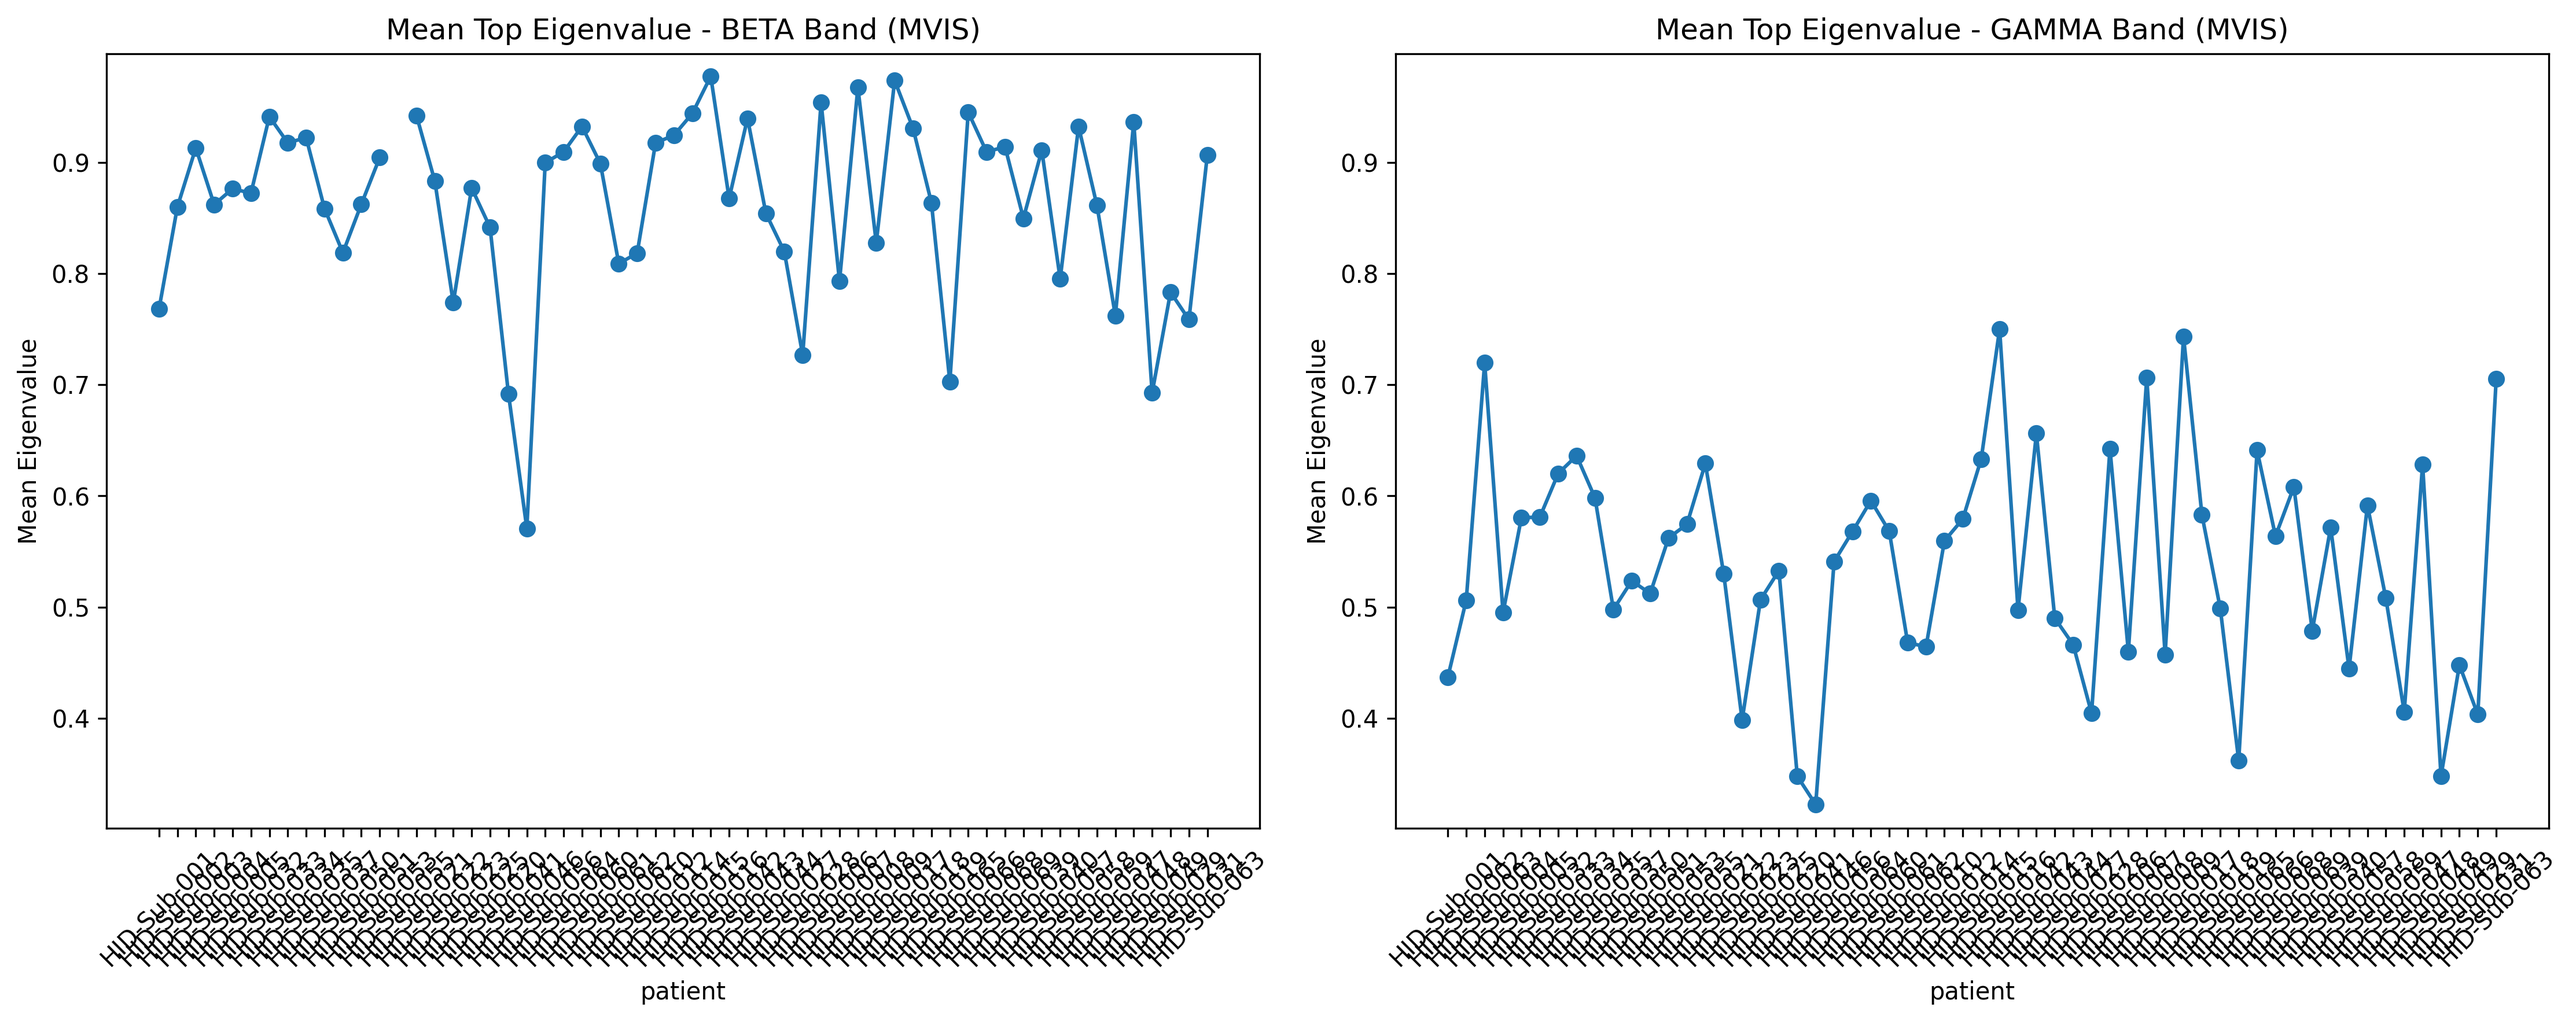
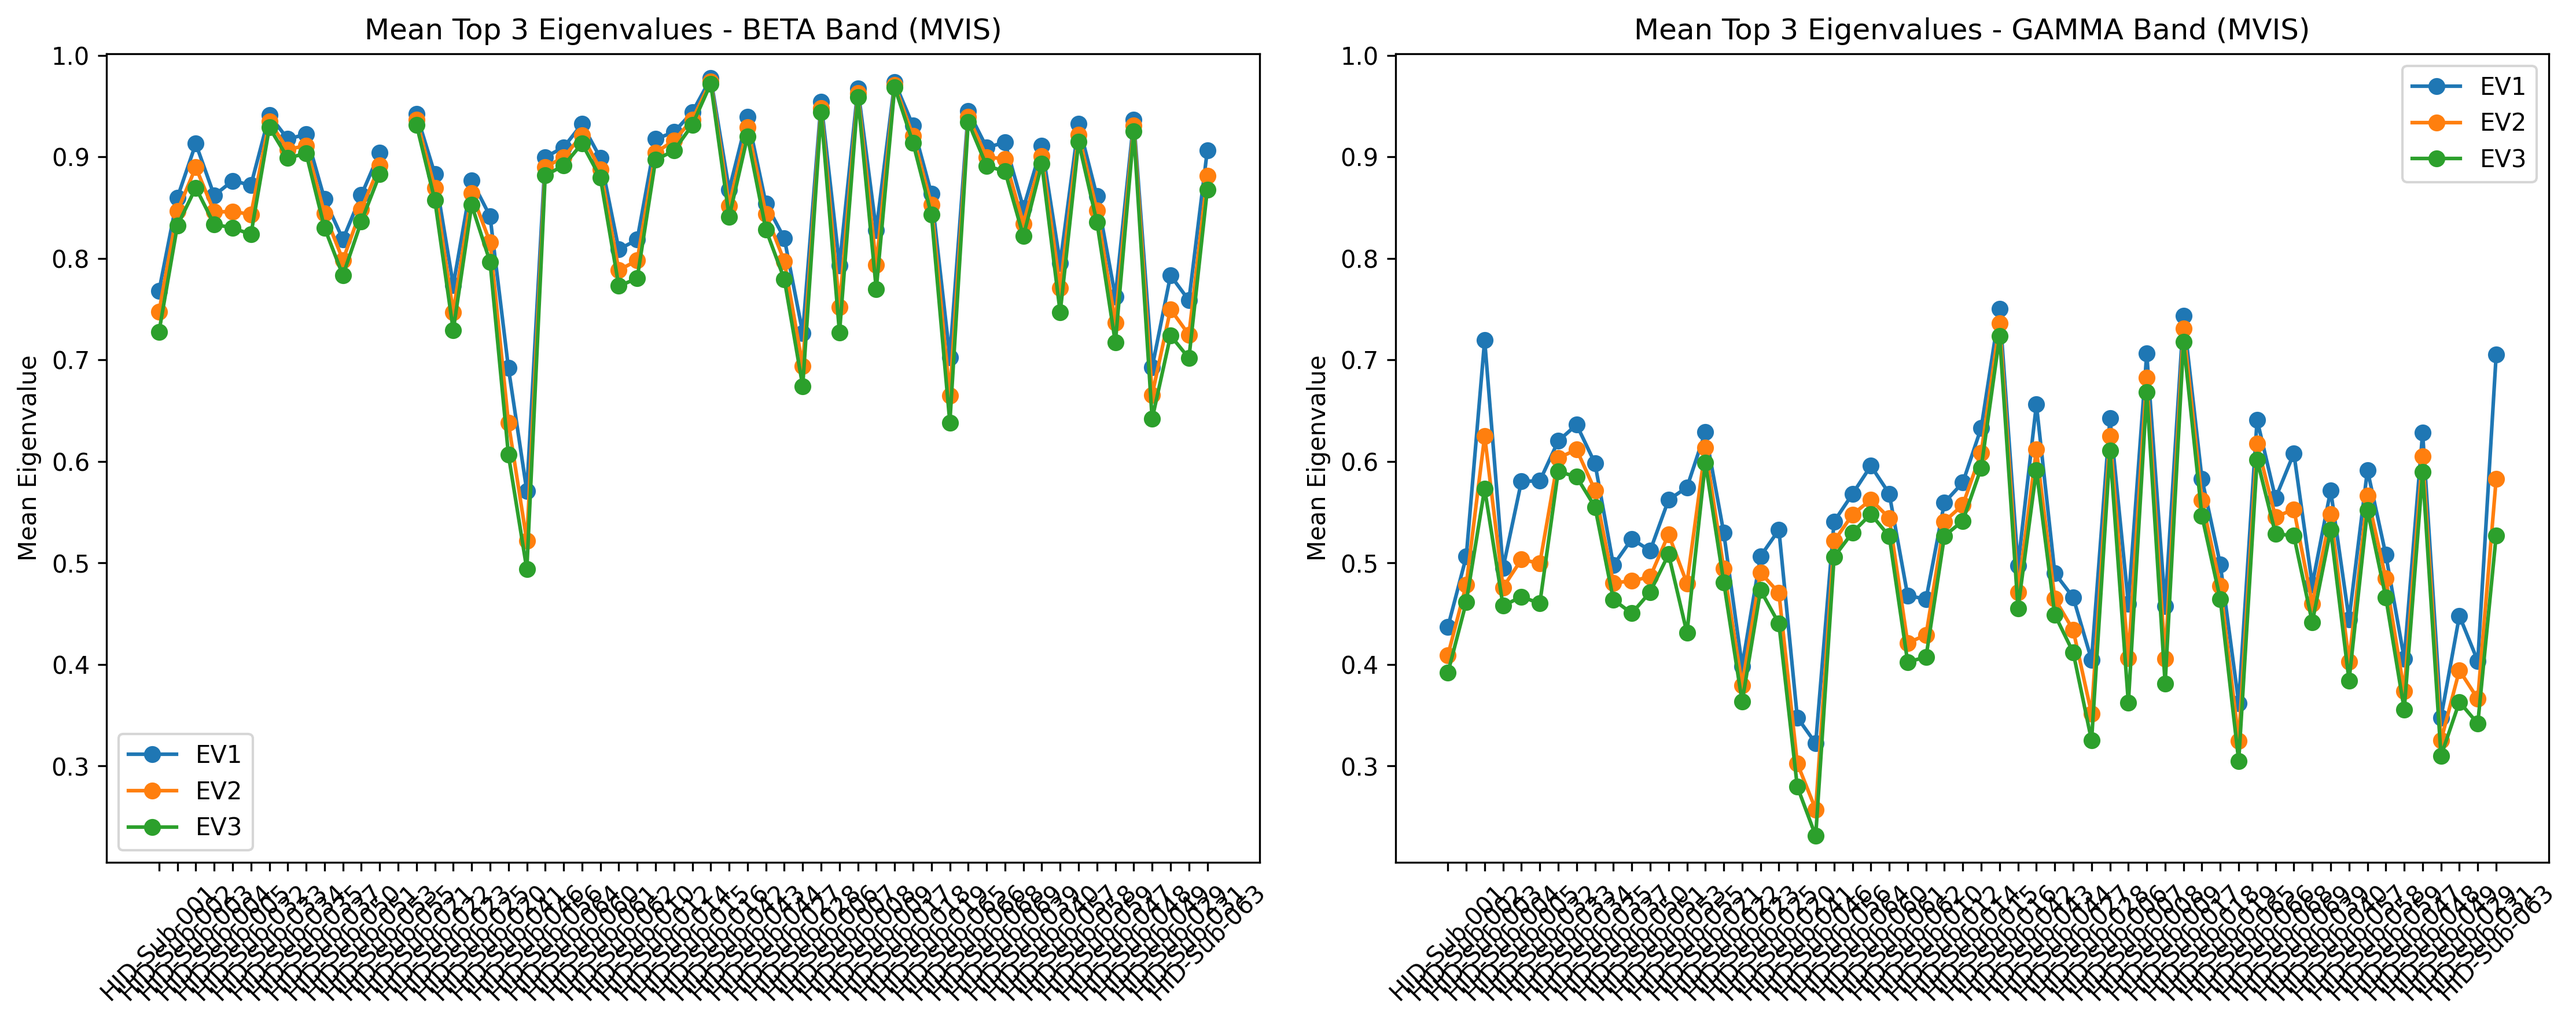
Enhance eigenvalue summary plotting: display top 3 eigenvalues per patient and update task selection to 'mvis'

diff --git a/automated_task_analysis_eigenvalues.py b/automated_task_analysis_eigenvalues.py
@@ -260,16 +260,22 @@ def plot_results_summary(dataset, output_dir, selected_task):
     # Plot 1: Mean eigenvalues by patient and band
     fig, axes = plt.subplots(1, 2, figsize=(15, 6))
     
+    patient_labels = list(dataset.coords['patient'].values)
+    x = np.arange(len(patient_labels))
+    
     for b_idx, band in enumerate(dataset.coords['band'].values):
         ax = axes[b_idx]
         
-        # Get mean eigenvalues across time for each patient
-        mean_eigs = dataset['eigenvalues'].isel(band=b_idx, eigenvalue_rank=0).mean(dim='time_window')
+        # Plot first 3 eigenvalues (ranks 1..3) mean across time for each patient
+        for rank_idx in range(3):  # indices 0,1,2 -> eigenvalue ranks 1..3
+            mean_eigs = dataset['eigenvalues'].isel(band=b_idx, eigenvalue_rank=rank_idx).mean(dim='time_window')
+            ax.plot(x, mean_eigs.values, marker='o', label=f'EV{rank_idx+1}')
         
-        mean_eigs.plot(ax=ax, marker='o')
-        ax.set_title(f'Mean Top Eigenvalue - {band.upper()} Band ({selected_task.upper()})')
+        ax.set_title(f'Mean Top 3 Eigenvalues - {band.upper()} Band ({selected_task.upper()})')
         ax.set_ylabel('Mean Eigenvalue')
-        ax.tick_params(axis='x', rotation=45)
+        ax.set_xticks(x)
+        ax.set_xticklabels(patient_labels, rotation=45)
+        ax.legend()
 
     ymin = min(ax.get_ylim()[0] for ax in axes)
     ymax = max(ax.get_ylim()[1] for ax in axes)
@@ -283,7 +289,7 @@ def plot_results_summary(dataset, output_dir, selected_task):
 
 if __name__ == "__main__":
     # Configuration
-    selected_task = "rest"  # Adjustable task selection
+    selected_task = "mvis"  # Adjustable task selection
     data_dir = "/media/annika/Daten/Promotion/18_Marseille/03_Data/7tasks_raw/"
     output_dir = f"results/automated_eigenvalues_{selected_task.lower()}"
     
@@ -293,7 +299,7 @@ if __name__ == "__main__":
     topk = 10
 
     # Overwrite parameter for not calculating the same again
-    overwrite = False
+    overwrite = True
     
     print(f"Starting automated {selected_task.upper()} DyCA analysis (only saving eigenvalues)...")
     print(f"Data directory: {data_dir}")
